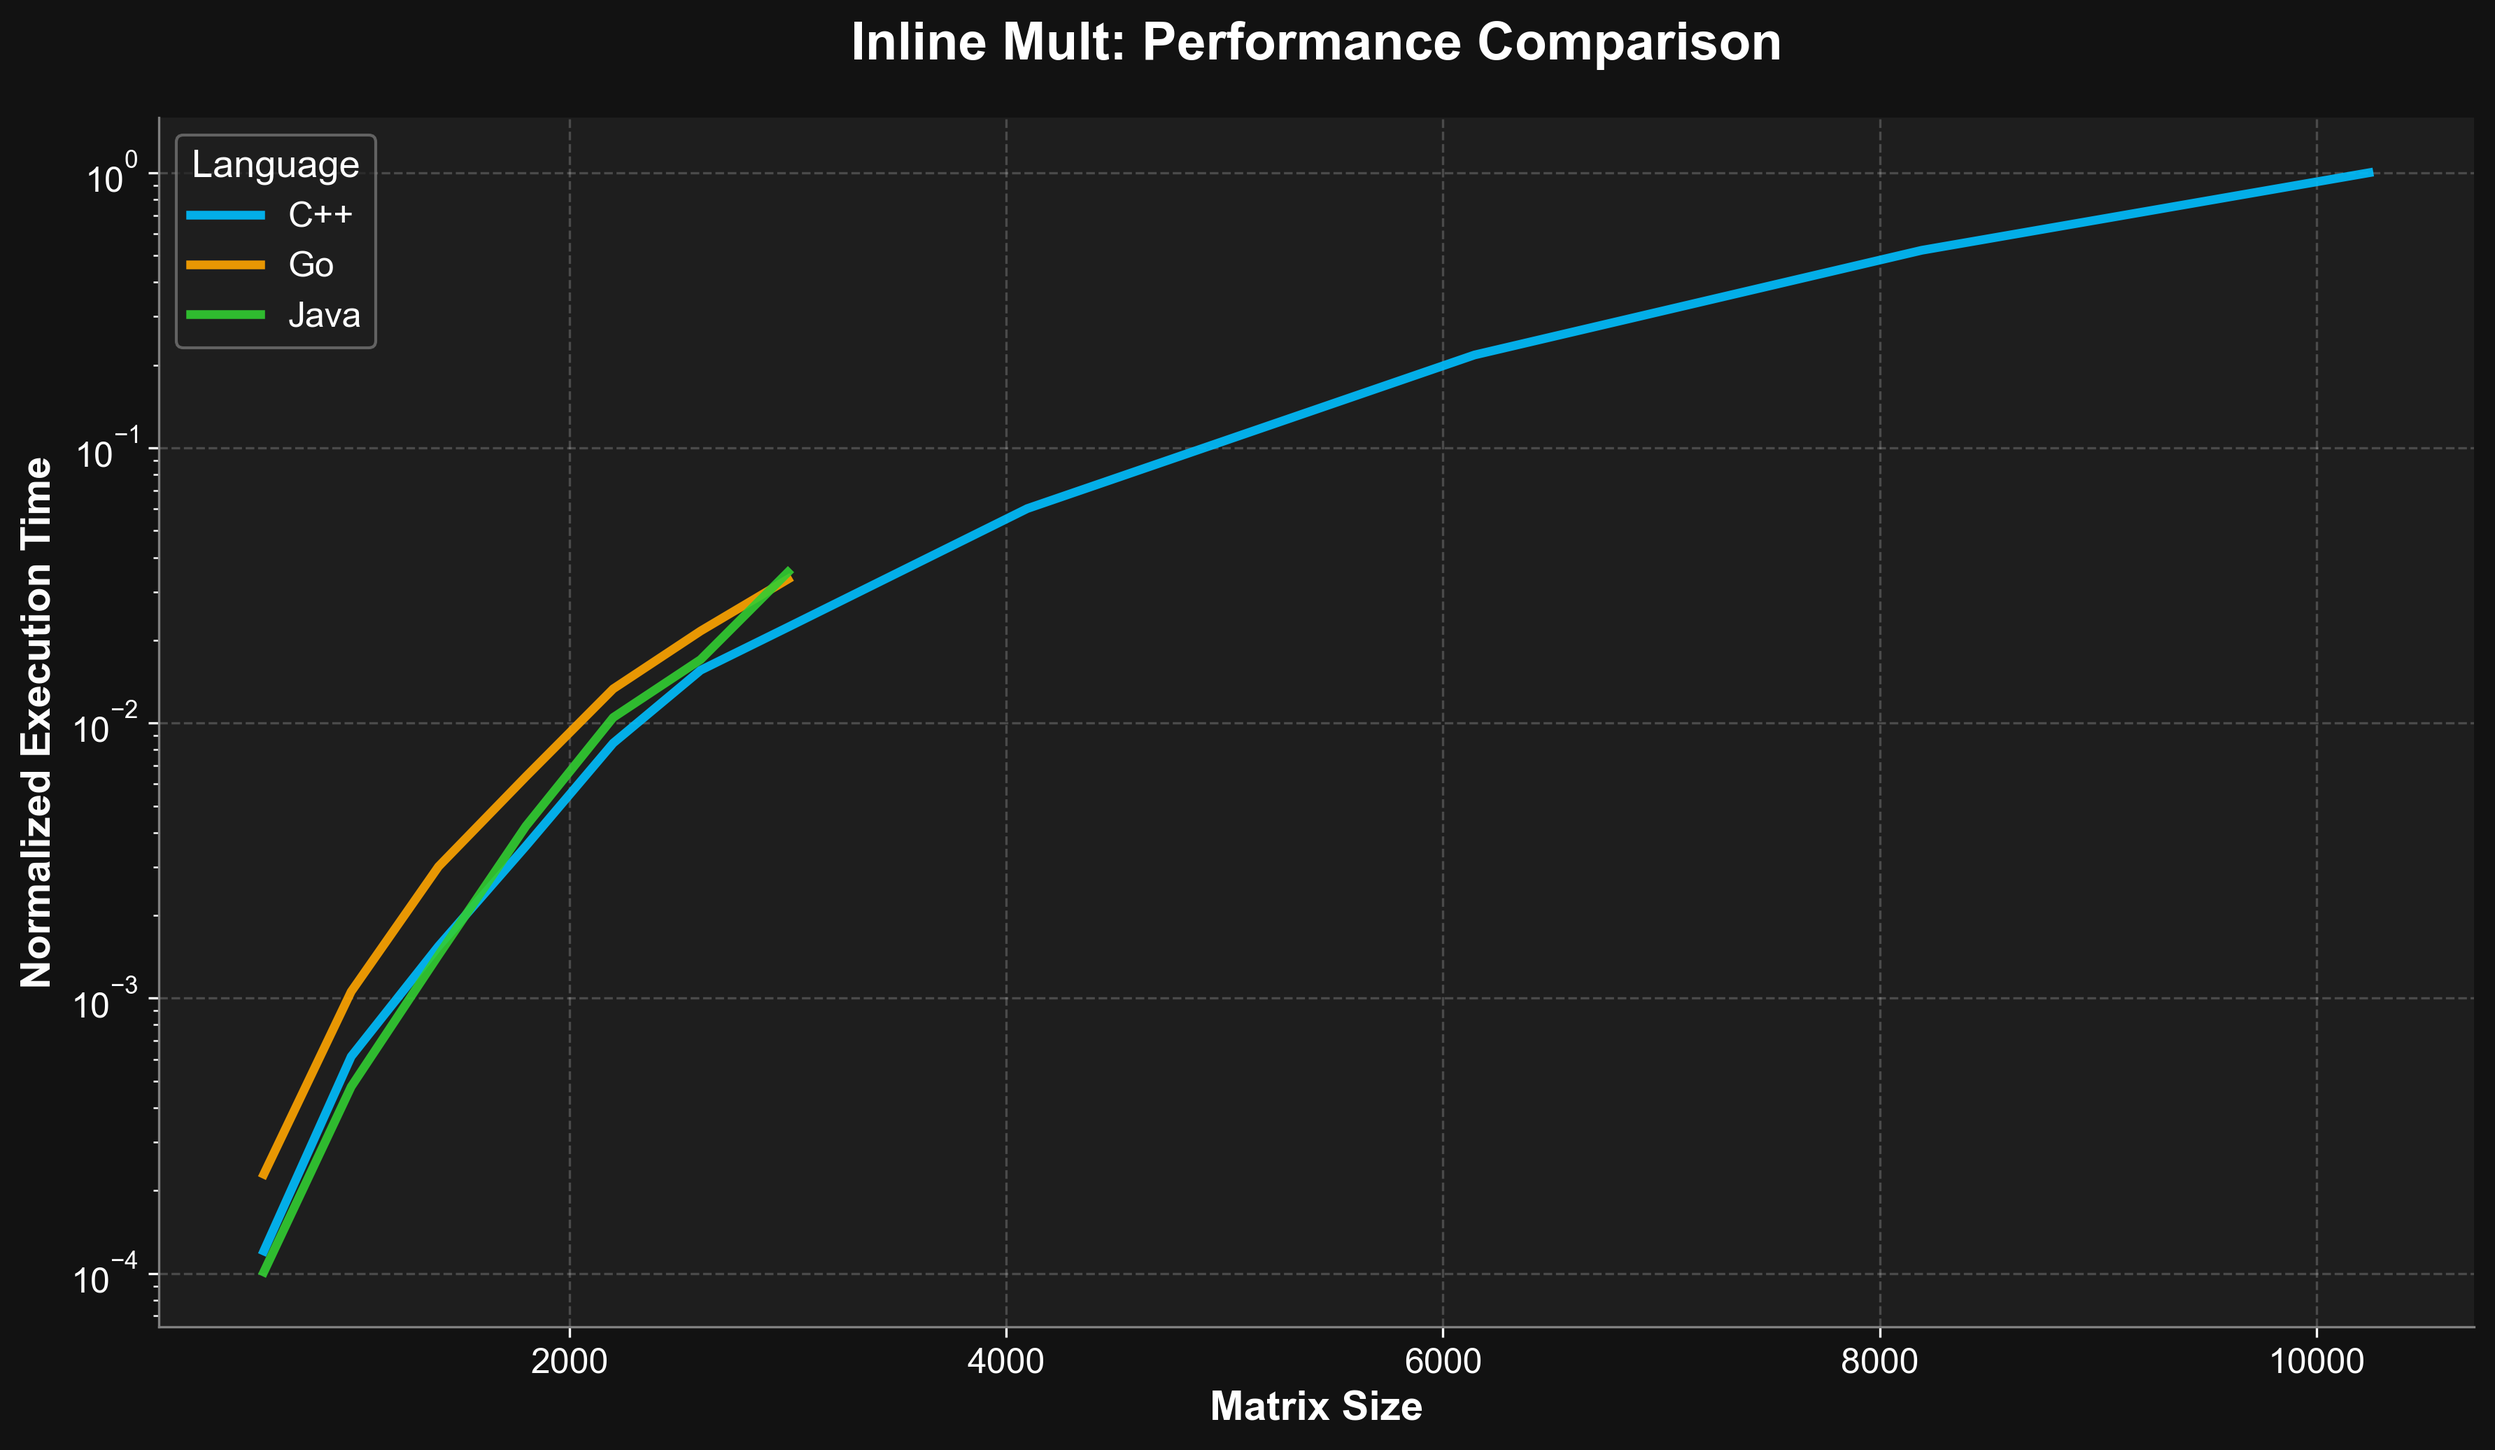
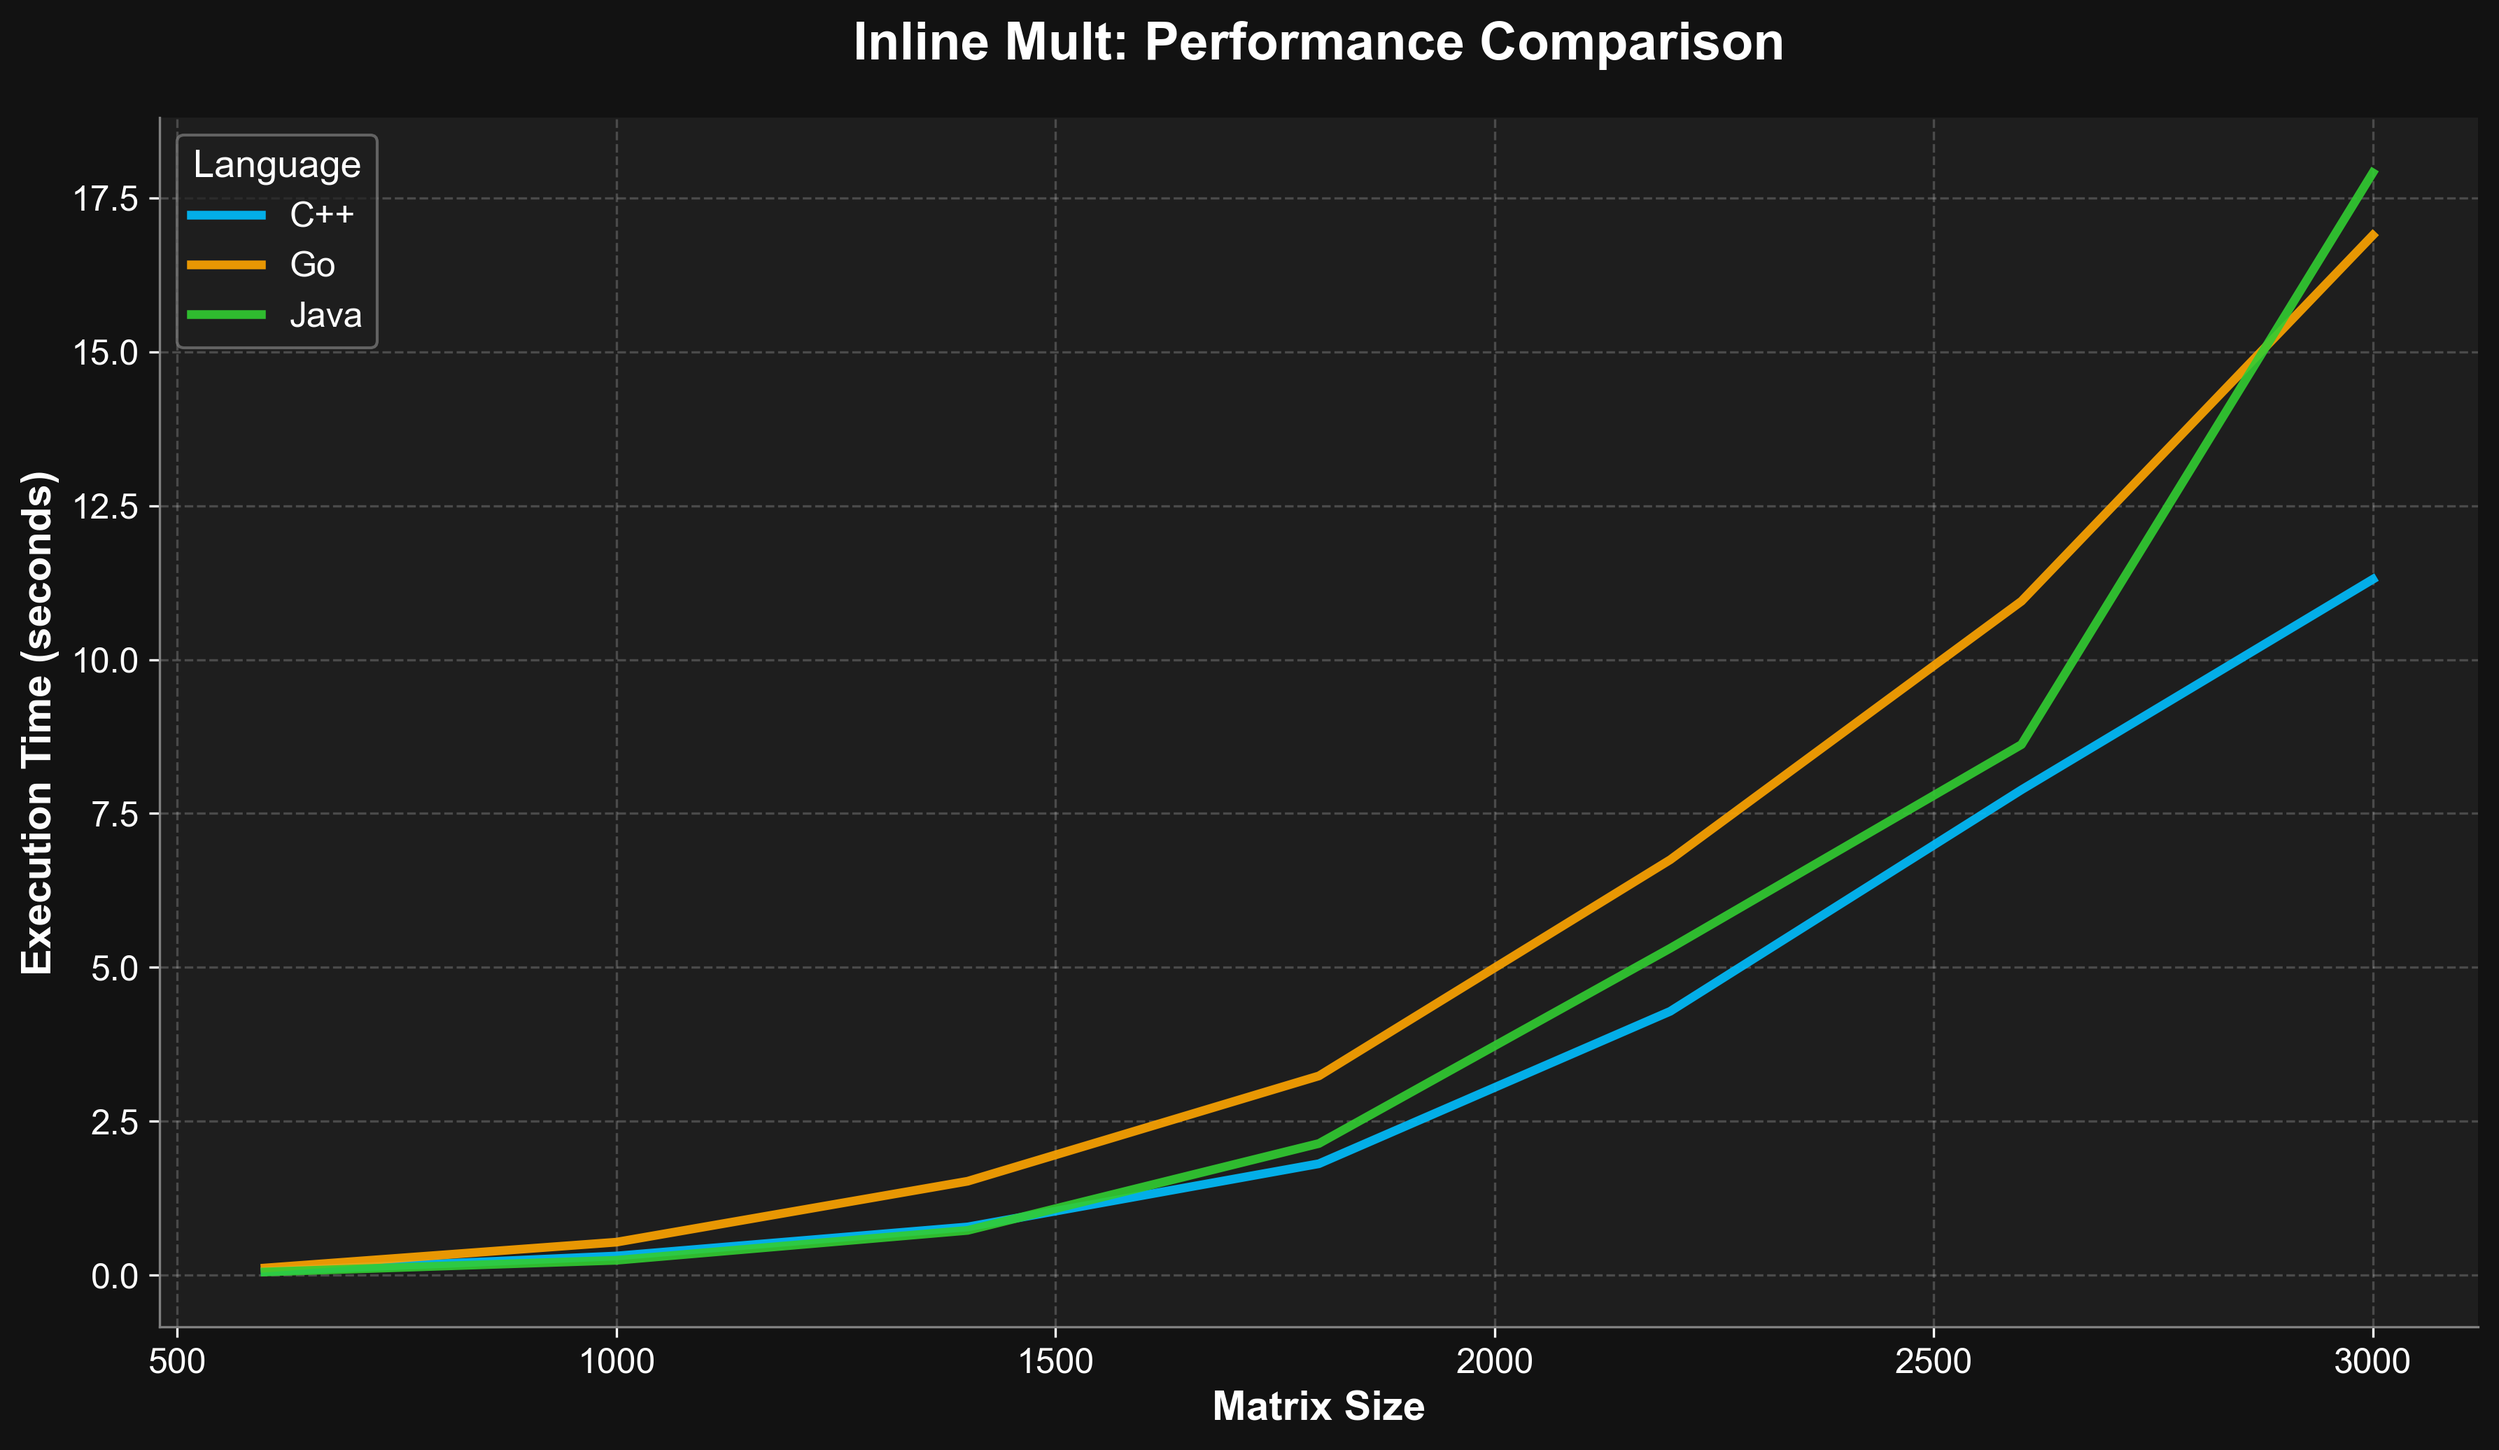
Changed graphic_data for all languages comparison

diff --git a/graphic_data_scripts/graphic_data_compare_languages.py b/graphic_data_scripts/graphic_data_compare_languages.py
@@ -13,8 +13,8 @@ plt.rcParams['axes.titlesize'] = 16
 plt.rcParams['xtick.labelsize'] = 12
 plt.rcParams['ytick.labelsize'] = 12
 plt.rcParams['legend.fontsize'] = 12
-plt.rcParams['figure.facecolor'] = '#121212'  # Dark background
-plt.rcParams['axes.facecolor'] = '#1E1E1E'    # Slightly lighter background for contrast
+plt.rcParams['figure.facecolor'] = '#121212'
+plt.rcParams['axes.facecolor'] = '#1E1E1E'
 
 def load_data(filename, function_type, max_size=3000):
     """Loads data from CSV, filters for the specified function type"""
@@ -24,40 +24,14 @@ def load_data(filename, function_type, max_size=3000):
     df['Real Time'] = pd.to_numeric(df['Real Time'], errors='coerce')
     df['MatrixSize'] = pd.to_numeric(df['MatrixSize'], errors='coerce')
     df = df.dropna(subset=['Real Time', 'MatrixSize'])
-    
+
     # Filter to include only matrix sizes up to max_size
     df = df[df['MatrixSize'] <= max_size]
-    
+
     # Group by MatrixSize and calculate average execution time
     df = df.groupby('MatrixSize')['Real Time'].mean().reset_index()
-    
-    return df
 
-def normalize_data_across_languages(language_data_dict):
-    """Normalize data across all languages for fair comparison"""
-    all_data = pd.DataFrame()
-    
-    for language, data in language_data_dict.items():
-        if len(data) > 0:
-            temp_df = data.copy()
-            temp_df['Language'] = language
-            all_data = pd.concat([all_data, temp_df])
-    
-    global_max = all_data['Real Time'].max()
-    
-    # Check if global_max is zero
-    if global_max == 0:
-        for language in language_data_dict:
-            if len(language_data_dict[language]) > 0:
-                language_data_dict[language]['RealTime_Norm'] = 1.0 # assign a constant value
-    else:
-        for language in language_data_dict:
-            if len(language_data_dict[language]) > 0:
-                language_data_dict[language]['RealTime_Norm'] = (
-                    language_data_dict[language]['Real Time'] / global_max
-                )
-    
-    return language_data_dict
+    return df
 
 function_types = ["Normal Mult", "Inline Mult"]
 
@@ -67,58 +41,55 @@ languages = {
     "Java": "#32CD32"
 }
 
-MAX_MATRIX_SIZE = 100000
+MAX_MATRIX_SIZE = 3000
 
 os.makedirs("graphic_data_compare_languages", exist_ok=True)
 
 for function_type in function_types:
     plt.figure(figsize=(12, 7))
-    
+
     language_data = {}
     for language in languages:
         filename = f"docs/data_cpp.csv" if language == "C++" else f"docs/data_{language.lower()}.csv"
         try:
             data = load_data(filename, function_type, MAX_MATRIX_SIZE)
-            
+
             if len(data) == 0:
                 print(f"No data points for {language} with matrix size <= {MAX_MATRIX_SIZE}")
                 language_data[language] = pd.DataFrame()
                 continue
-                
+
             language_data[language] = data
-            
+
         except Exception as e:
             print(f"Error processing {language} data for {function_type}: {e}")
             language_data[language] = pd.DataFrame()
-    
-    normalized_data = normalize_data_across_languages(language_data)
-    
+
     for language, color in languages.items():
-        if len(normalized_data[language]) > 0:
-            plt.plot(normalized_data[language]["MatrixSize"], 
-                     normalized_data[language]["RealTime_Norm"], 
-                     linestyle="-", linewidth=3.0, color=color, 
+        if len(language_data[language]) > 0: # Use language_data instead of normalized_data
+            plt.plot(language_data[language]["MatrixSize"],
+                     language_data[language]["Real Time"], # Use "Real Time" directly
+                     linestyle="-", linewidth=3.0, color=color,
                      label=language, alpha=0.9)
-    
-    plt.yscale('log')  # Set y-axis to logarithmic scale
+
+    # Removed plt.yscale('log')
     plt.xlabel("Matrix Size", fontweight='bold', color='white')
-    plt.ylabel("Normalized Execution Time", fontweight='bold', color='white')
-    plt.title(f"{function_type}: Performance Comparison", 
+    plt.ylabel("Execution Time (seconds)", fontweight='bold', color='white') # Updated label
+    plt.title(f"{function_type}: Performance Comparison",
               fontweight='bold', pad=20, color='white', fontsize=18)
-    
+
     plt.grid(True, alpha=0.2, linestyle='--')
-    
-    legend = plt.legend(title="Language", title_fontsize=13, 
+
+    legend = plt.legend(title="Language", title_fontsize=13,
                         loc='upper left', frameon=True, framealpha=0.7,
                         edgecolor='gray')
     plt.setp(legend.get_title(), color='white')
-    
+
     plt.gca().spines['top'].set_visible(False)
     plt.gca().spines['right'].set_visible(False)
     plt.gca().spines['left'].set_color('gray')
     plt.gca().spines['bottom'].set_color('gray')
-    
+
     plt.tight_layout()
-    plt.savefig(f"graphic_data_compare_languages/{function_type.replace(' ', '_').upper()}_PERFORMANCE.png", 
-                dpi=300, bbox_inches='tight', facecolor='#121212')
+    #plt.savefig(f"graphic_data_compare_languages/{function_type.replace(' ', '_').upper()}_PERFORMANCE.png", dpi=300, bbox_inches='tight', facecolor='#121212')
     plt.close()
